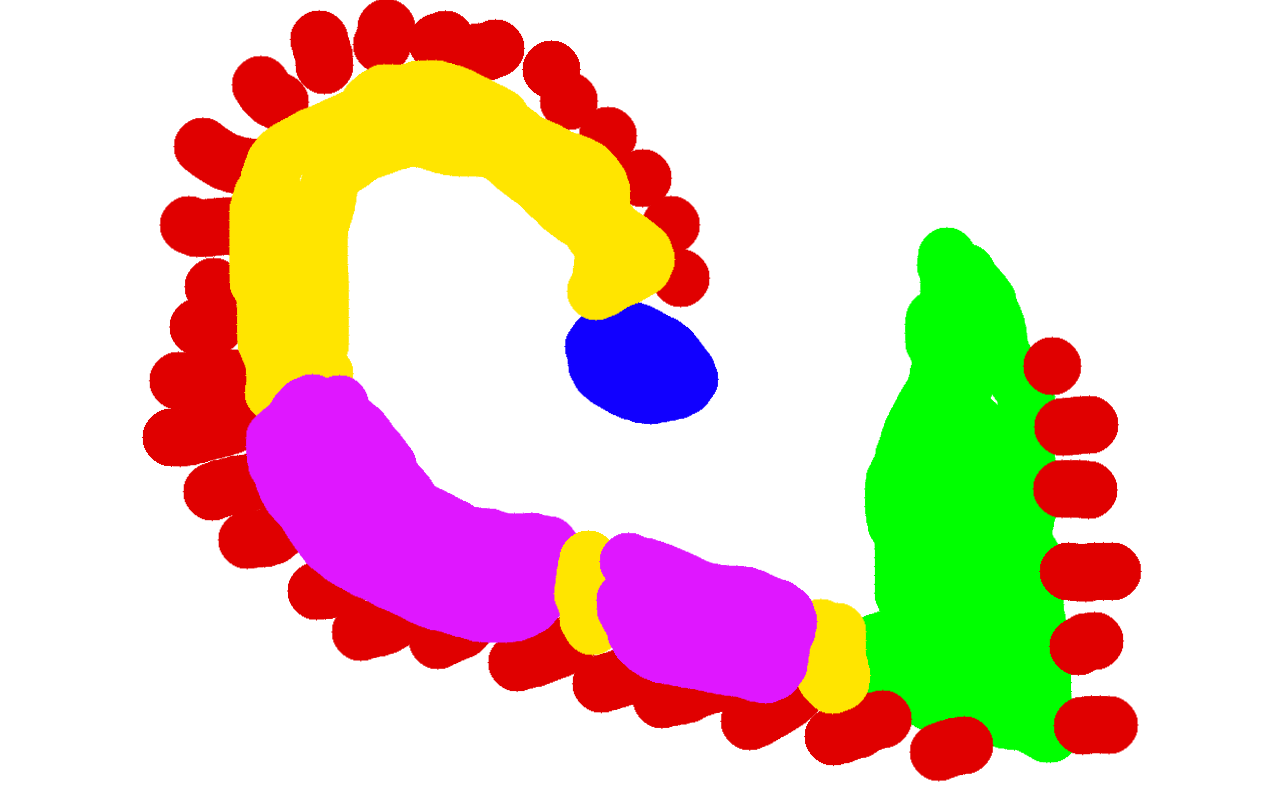
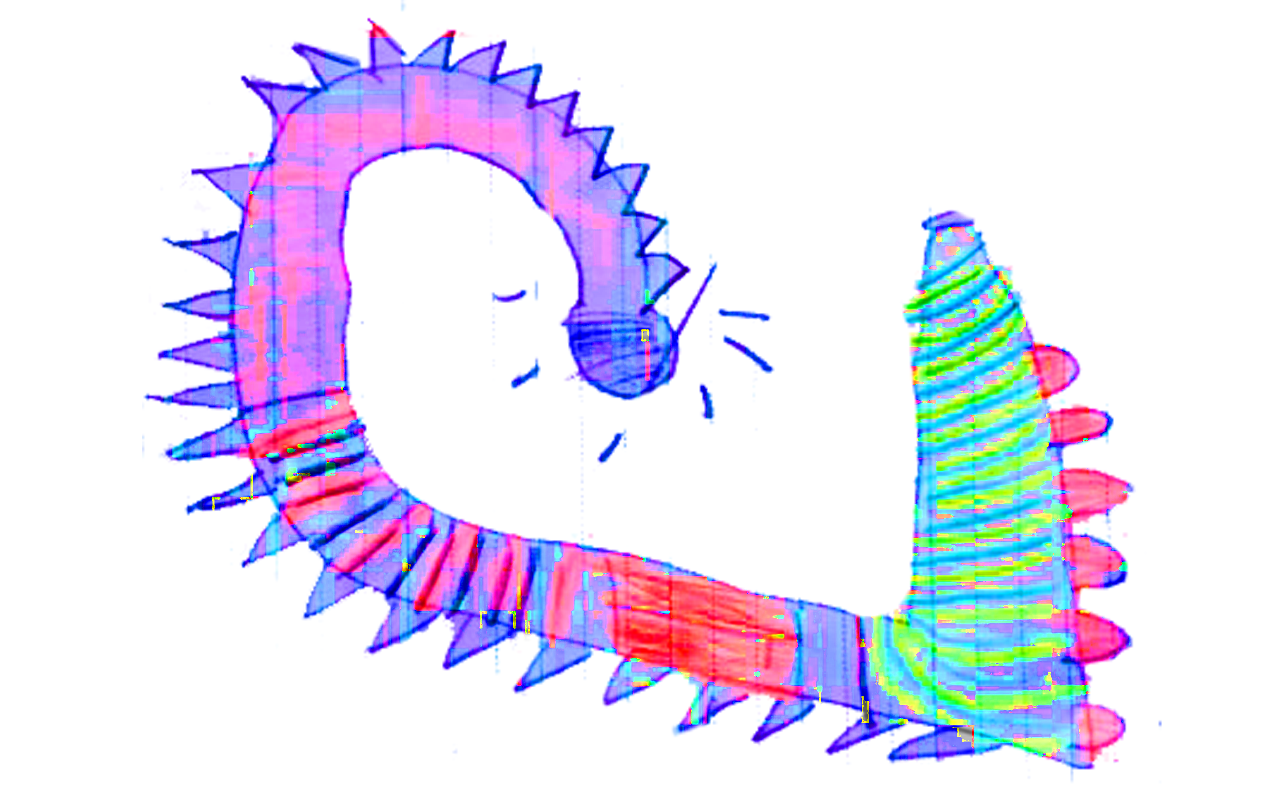
refactor.  changing mask to saturated version of kidstrument

diff --git a/script.js b/script.js
@@ -5,6 +5,21 @@
 // var numBanks = 8;
 // var bankLengths = [ 176, 91, 16, 31, 12, 161, 11, 16 ];
 
+//TODO
+//for further UI
+// https://github.com/loneboarder/p5.experience.js
+//https://github.com/bitcraftlab/p5.gui
+//https://github.com/generative-light/p5.scribble.js
+
+//TOUCH GUI 
+//https://github.com/L05/p5.touchgui
+// early work but good to look at for touch interactions on mobile
+//it works great actually
+//https://editor.p5js.org/L05/sketches/LWfA8lGwe
+
+
+
+
 let synth;
 let notes = [ 'C', 'D', 'E', 'F#', 'G', 'A', 'B' ];
 // let colores = [0, 20, 40, 90, 130, 170, 210];
@@ -28,7 +43,7 @@ var currentHue;
 var hueUI;
 var normMouseX;
 var normMouseY;
-var maskImageScale = 32;
+var maskImageScale = 64; //
 var drawScale = 0.5;
 var offset = [ 0, 0 ];
 // var hueslider;
@@ -57,6 +72,7 @@ function windowResized() {
 ///SETUP
 function setup() {
 	console.log('hi');
+	pixelDensity(1);
 
 	//set up synth
 	synth = new Tone.Synth({
@@ -71,7 +87,7 @@ function setup() {
 			decay: 0.2,
 			sustain: 0.2,
 			release: 1.5
-		}//,
+		} //,
 		// portamento: 0.05
 	}).toMaster();
 	divX = width / notes.length;
@@ -86,8 +102,8 @@ function setup() {
 	canvas.position(0, 0);
 	canvas.style('z-index', -1);
 
-
 	//set up mask image
+	// maskImage = instrumentImage.get();
 	maskImage.resize(maskImage.width / maskImageScale, maskImage.height / maskImageScale);
 	maskImage.loadPixels();
 
@@ -99,14 +115,14 @@ function setup() {
 function draw() {
 	update();
 
-
-	if(isPressed && currentHue >= 0){
+	if (isPressed && currentHue >= 0) {
 		colorMode(HSB);
 		// background(millis()* 0.1 % 360, 50, 100, 0.2);
 		background(currentHue, 50, 100, 0.2);
 		colorMode(RGB);
-	}else{
-			background(255, 100);
+	}
+	else {
+		background(255, 100);
 	}
 
 	fill(255);
@@ -159,12 +175,12 @@ function update() {
 		currentColor = color(255);
 	}
 
-	if (isPressed  && currentHue >= 0) {
+	if (isPressed && currentHue >= 0) {
 		// let note = Math.round((mouseX + divX / 2) / divX) - 1;
 		// let octave = Math.round((mouseY + divY / 2) / divY) - 1;
 		// note = notes[note] + octaves[octave];
 
-		let note = map(getNormMouse().x, 0, 1, 400, 2000)
+		let note = map(getNormMouse().x, 0, 1, 400, 2000);
 		console.log(note);
 
 		// synth.setNote(map(getNormMouse().x, 0, 1, 400, 2000));
@@ -185,46 +201,7 @@ function update() {
 	}
 }
 
-function getColor() {
-	//  aim:  to access pixels from mask image as effieciently as possible
-	//				accounting for image scaling and transformation
-
-	//do the opposite scaling to sampling coords
-	//as is done to the image beingdrawn.
-	let foundColor = color(
-		...maskImage.get((mouseX - offset.x) / maskImageScale / drawScale, (mouseY - offset.y) / maskImageScale / drawScale)
-	);
-
-	//  this approach might be faster...
-	//  let d = pixelDensity();
-	//  let off = (y * maskImage.width + x) * d * 4;
-	//  let components = [
-	// 	maskImage.pixels[off],
-	// 	maskImage.pixels[off + 1],
-	// 	maskImage.pixels[off + 2],
-	// 	maskImage.pixels[off + 3]
-	//  ];
-	//  print(components);
-	//  let foundColor = color(...components);
-
-	return foundColor;
-}
-
-function getNormMouse() {
-	let normMouseX = mouseX / width;
-	let normMouseY = mouseY / height;
-	let obj = {
-		x: normMouseX,
-		y: normMouseY
-	};
-	return obj;
-}
-
-function getElapsed() {
-	let endTime = new Date();
-	return (timeDiff = endTime - startTime); //in ms
-}
-
+///ONTOUCH
 function go() {
 	isPressed = true;
 	lastTouched = getElapsed();
@@ -232,94 +209,24 @@ function go() {
 	console.log(getNormMouse());
 }
 
+///ON RELEASE
 function stop() {
 	isPressed = false;
 	console.log('stop after ' + (getElapsed() - lastTouched) + 'ms');
 }
 
 //fuse touches and mouse clicks
+function mousePressed() {
+	go();
+}
+
 function touchStarted() {
 	go();
+}
+function mouseReleased() {
+	stop();
 }
 
 function touchEnded() {
 	stop();
 }
-
-function mousePressed() {
-	go();
-	// step();
-}
-
-function mouseReleased() {
-	stop();
-}
-
-// document.getElementById('playbutton').onclick = step;
-// document.getElementById('playbutton').onmousedown = step;
-// document.getElementById('button').onmousedown = buttonDown;
-// document.getElementById('bg').onmousedown = bgTouch;
-// document.getElementById('bg').onmouseup = bgTouchUp;
-
-// function loadBank() {
-// 	//todo implement loading bar
-// 	numSteps = bankLengths[currentBank];
-
-// 	console.log(numSteps);
-
-// 	for (var i = 1; i <= numSteps; i++) {
-// 		let fileString = '../assets/' + (currentBank + 1) + '/00' + i + '.mp3';
-// 		// let player = new Tone.Player(fileString);
-
-// 		let player = new Tone.Player({
-// 			url: fileString,
-// 			fadeOut: 2.5,
-// 			volume: -6
-
-// 			// "loop" : true,
-// 			// "loopStart" : 0.5,
-// 			// "loopEnd" : 0.7,
-// 		}).toMaster();
-
-// 		//TODO this isn't sticking
-// 		// player.volume = -12;
-// 		player.toMaster();
-// 		players.push(player);
-// 		// mp3Locations.push("../assets/1/00" + i + ".mp3")
-// 	}
-// }
-
-// function buttonDown() {
-// 	console.log('bank next');
-
-// 	//for each in players
-// 	//dispose
-// 	players.forEach((player) => player.dispose());
-
-// 	//clear players
-// 	players = [];
-
-// 	//increment bank
-// 	currentBank++;
-// 	currentBank %= numBanks;
-
-// 	console.log('bank ' + currentBank);
-
-// 	//load sounds
-// 	loadBank();
-// }
-
-// function step() {
-// 	currentStep++;
-// 	if (currentStep >= numSteps) {
-// 		currentStep = 1;
-// 	}
-
-// 	// players[currentStep].volume = -12;
-// 	players[currentStep].start();
-// }
-
-// function stop() {
-// 	// players[currentStep].fadeOut = 1;
-// 	players[currentStep].stop();
-// }

diff --git a/utils.js b/utils.js
@@ -1,0 +1,120 @@
+// utils.js
+
+function luma(img) {
+	let newImg = img.get();
+
+	for (let y = 0; y < newImg.height; y++) {
+		for (let x = 0; x < newImg.width; x++) {
+			let index = (x + y * newImg.width) * 4;
+			let r = newImg.pixels[index + 0];
+			let g = newImg.pixels[index + 1];
+			let b = newImg.pixels[index + 2];
+			let a = newImg.pixels[index + 3];
+
+			let luma = r * 0.299 + g * 0.587 + b * 0.0114;
+
+			newImg.pixels[index + 0] = luma;
+			newImg.pixels[index + 1] = luma;
+			newImg.pixels[index + 2] = luma;
+		}
+	}
+	newImg.updatePixels();
+
+	return newImg;
+}
+
+// function saturate(img) {
+
+//   //TODO this function is broken
+// 	let newImg = img.get();
+
+// 	for (let y = 0; y < newImg.height; y++) {
+// 		for (let x = 0; x < newImg.width; x++) {
+// 			let index = (x + y * newImg.width) * 4;
+// 			let r = newImg.pixels[index + 0];
+// 			let g = newImg.pixels[index + 1];
+// 			let b = newImg.pixels[index + 2];
+// 			let a = newImg.pixels[index + 3];
+
+//       let c = color(r,g,b);
+
+//       colorMode(HSB);
+//       c = color(c._getHue(),200,c._getBrightness());
+//       colorMode(RGB);
+
+// 			newImg.pixels[index + 0] = c._getRed();
+// 			newImg.pixels[index + 1] = c._getGreen();
+// 			newImg.pixels[index + 2] = c._getBlue();
+// 			newImg.pixels[index + 3] = a;
+// 		}
+// 	}
+// 	// newImg.updatePixels();
+
+// 	return newImg;
+// }
+
+function getColor() {
+	//  aim:  to access pixels from mask image as effieciently as possible
+	//				accounting for image scaling and transformation
+
+	//do the opposite scaling to sampling coords
+	//as is done to the image beingdrawn.
+	let foundColor = color(
+		...maskImage.get((mouseX - offset.x) / maskImageScale / drawScale, (mouseY - offset.y) / maskImageScale / drawScale)
+	);
+
+	//  this approach might be faster...
+	//  let d = pixelDensity();
+	//  let off = (y * maskImage.width + x) * d * 4;
+	//  let components = [
+	// 	maskImage.pixels[off],
+	// 	maskImage.pixels[off + 1],
+	// 	maskImage.pixels[off + 2],
+	// 	maskImage.pixels[off + 3]
+	//  ];
+	//  print(components);
+	//  let foundColor = color(...components);
+
+	return foundColor;
+}
+
+function getNormMouse() {
+	let normMouseX = mouseX / width;
+	let normMouseY = mouseY / height;
+	let obj = {
+		x: normMouseX,
+		y: normMouseY
+	};
+	return obj;
+}
+
+function getElapsed() {
+	let endTime = new Date();
+	return (timeDiff = endTime - startTime); //in ms
+}
+
+//normalised RGB to HSV 360 100 100 1
+// let cMax = max(r, g, b);
+// let cMin = min(r, g, b);
+// let d = cMax - cMin;
+
+// let h = 0;
+// let s = 0;
+// let v = cMax;
+
+// if (d == 0) {
+// 	h = 0;
+// }
+// else if (cMax == r) {
+// 	h = 60 * (((g - b) / d) % 6);
+// }
+// else if (cMax == g) {
+// 	h = 60 * ((b - r) / d + 2);
+// }
+// else if (cMax == b) {
+// 	h = 60 * ((r - g) / d + 4);
+// }
+
+// if(cMax != 0){
+//   s = d/cMax;
+// }

diff --git a/index.html b/index.html
@@ -26,8 +26,10 @@
 
 
   <div class="bg" id="bg">
+    <script src="utils.js"></script>
     <script src="script.js"></script>
   </div>
 
 </body>
 
+</html>
